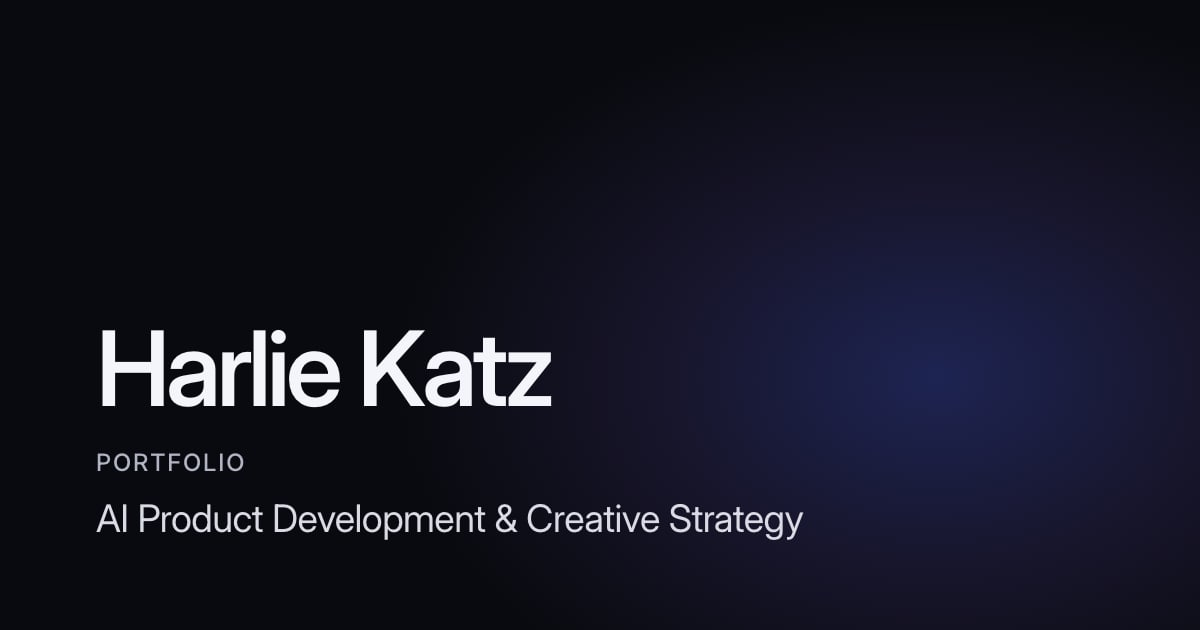
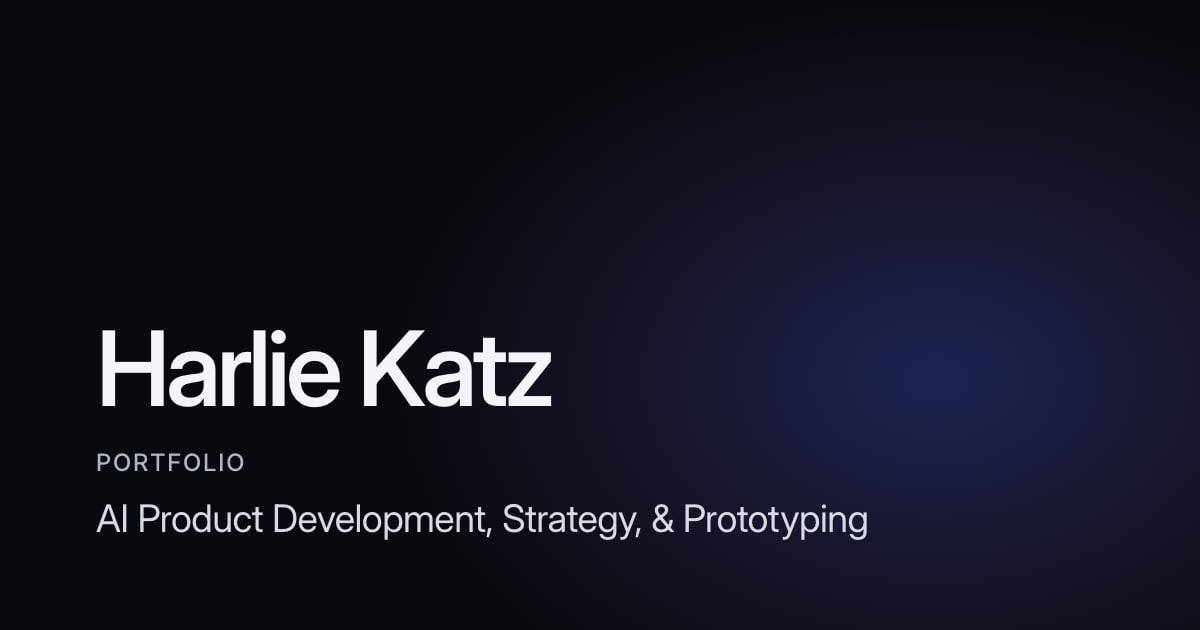
copy: subtitle "AI Product Development, Strategy, & Prototyping"
Harlie's line of 2026-10-18 under PORTFOLIO; the About descriptor, meta descriptions and the regenerated link-preview
card (og:image ?v=4) follow it.

Changed region(s): [[0.4008, 0.7841, 0.74, 0.8746]]

diff --git a/index.html b/index.html
@@ -8,17 +8,17 @@
     <title>Harlie Katz · Portfolio</title>
     <meta
       name="description"
-      content="Harlie Katz, AI product development and creative strategy. Case studies on turning observations about how people work into product requirements, prototypes, and recommendations."
+      content="Harlie Katz, AI product development, strategy, and prototyping. Case studies on turning observations about how people work into product requirements, prototypes, and recommendations."
     />
     <meta property="og:type" content="website" />
     <meta property="og:site_name" content="Harlie Katz" />
     <meta property="og:title" content="Harlie Katz · Portfolio" />
     <meta
       property="og:description"
-      content="Harlie Katz, AI product development and creative strategy. Case studies on turning observations about how people work into product requirements, prototypes, and recommendations."
+      content="Harlie Katz, AI product development, strategy, and prototyping. Case studies on turning observations about how people work into product requirements, prototypes, and recommendations."
     />
     <!-- Absolute, as link-preview crawlers require, on the site's final address (2026-09-30); bump ?v= when the card changes. -->
-    <meta property="og:image" content="https://harliekatz.com/social-preview.jpg?v=3" />
+    <meta property="og:image" content="https://harliekatz.com/social-preview.jpg?v=4" />
     <meta property="og:image:width" content="1200" />
     <meta property="og:image:height" content="630" />
     <meta name="twitter:card" content="summary_large_image" />

diff --git a/src/content/pages/about.tsx b/src/content/pages/about.tsx
@@ -41,11 +41,11 @@ export const ABOUT = {
   label: 'About',
   name: 'Harlie Katz',
   /**
-   * Harlie's professional descriptor, the homepage line in this page's sentence case: "AI Product Development &
-   * Creative Strategy" (2026-10-12; it was "AI Product Strategy, Deployment & Implementation", which read as enterprise
-   * implementation only).
+   * Harlie's professional descriptor, the homepage line in this page's sentence case: "AI Product Development,
+   * Strategy, & Prototyping" (2026-10-18; before that "AI Product Development & Creative Strategy", 2026-10-12, and "AI
+   * Product Strategy, Deployment & Implementation", which read as enterprise implementation only).
    */
-  descriptor: 'AI product development and creative strategy',
+  descriptor: 'AI product development, strategy, and prototyping',
   /** Harlie's text of 2026-10-12, verbatim, in four paragraphs. */
   intro: [
     'I recently graduated from UC Berkeley in three years, where I studied cognitive science and data science. I entered college fascinated by how people think and perceive the world, and became increasingly interested in the computational side of intelligence, particularly AI.',

diff --git a/src/content/site.ts b/src/content/site.ts
@@ -2,7 +2,7 @@
 export const SITE = {
   name: 'Harlie Katz',
   titleSuffix: 'Harlie Katz',
-  description: 'Harlie Katz, AI product development and creative strategy. Case studies on turning observations about how people work into product requirements, prototypes, and recommendations.',
+  description: 'Harlie Katz, AI product development, strategy, and prototyping. Case studies on turning observations about how people work into product requirements, prototypes, and recommendations.',
   email: 'harliekatz@berkeley.edu',
   emailHref: 'mailto:harliekatz@berkeley.edu',
   linkedin: 'https://www.linkedin.com/in/harliekatz/',

diff --git a/src/pages/Home.tsx b/src/pages/Home.tsx
@@ -118,8 +118,8 @@ export function Home() {
               </span>
             </h1>
             <p className="hero__line">
-              {/* "&" stays with "Creative" where the line wraps (phones). */}
-              <TypeLine text={'AI Product Development &\u00a0Creative Strategy'} delay={1.0} duration={0.8} />
+              {/* Harlie's line of 2026-10-18; "&" stays with "Prototyping" where the line wraps (phones). */}
+              <TypeLine text={'AI Product Development, Strategy, &\u00a0Prototyping'} delay={1.0} duration={0.8} />
             </p>
           </div>
         </div>

diff --git a/docs/build-log.md b/docs/build-log.md
@@ -189,3 +189,7 @@ Verified with Playwright against the dev server at 1440×900, 1280×720, 768×10
 
 ### 2026-10-18 — the grid swap rolled back (deployed 2026-10-18)
 - Harlie ("nvm go back"): the rows are back to the 2026-10-12 order (AI Spreadsheet Agent, CafePress UK, Merchandising Platform; AI Leasing Agent, Jumpstart Finance), with Previous/Next, the phone menu, the stage sides and the tests as they were. The swap lived on the site for a few minutes as 075820b.
+
+### 2026-10-18 — subtitle "AI Product Development, Strategy, & Prototyping" (deployed 2026-10-18)
+- Harlie: "AI Product Development, Strategy, & Prototyping for under portfolio". The homepage line under PORTFOLIO (Home.tsx; the "&" stays with "Prototyping" where it wraps on phones), the About descriptor in sentence case ("AI product development, strategy, and prototyping"), the meta and og descriptions (site.ts, index.html), and the link-preview card (`social-preview.jpg` regenerated by `node scripts/prepare-media.mjs social`, og:image `?v=4`).
+- Checks: tsc, `eslint .`, build; dev server: the line on the homepage at 1440×900 and 390×844 (two lines, no horizontal scroll) and on About; home, About and routes specs on desktop and mobile (38 passed).
